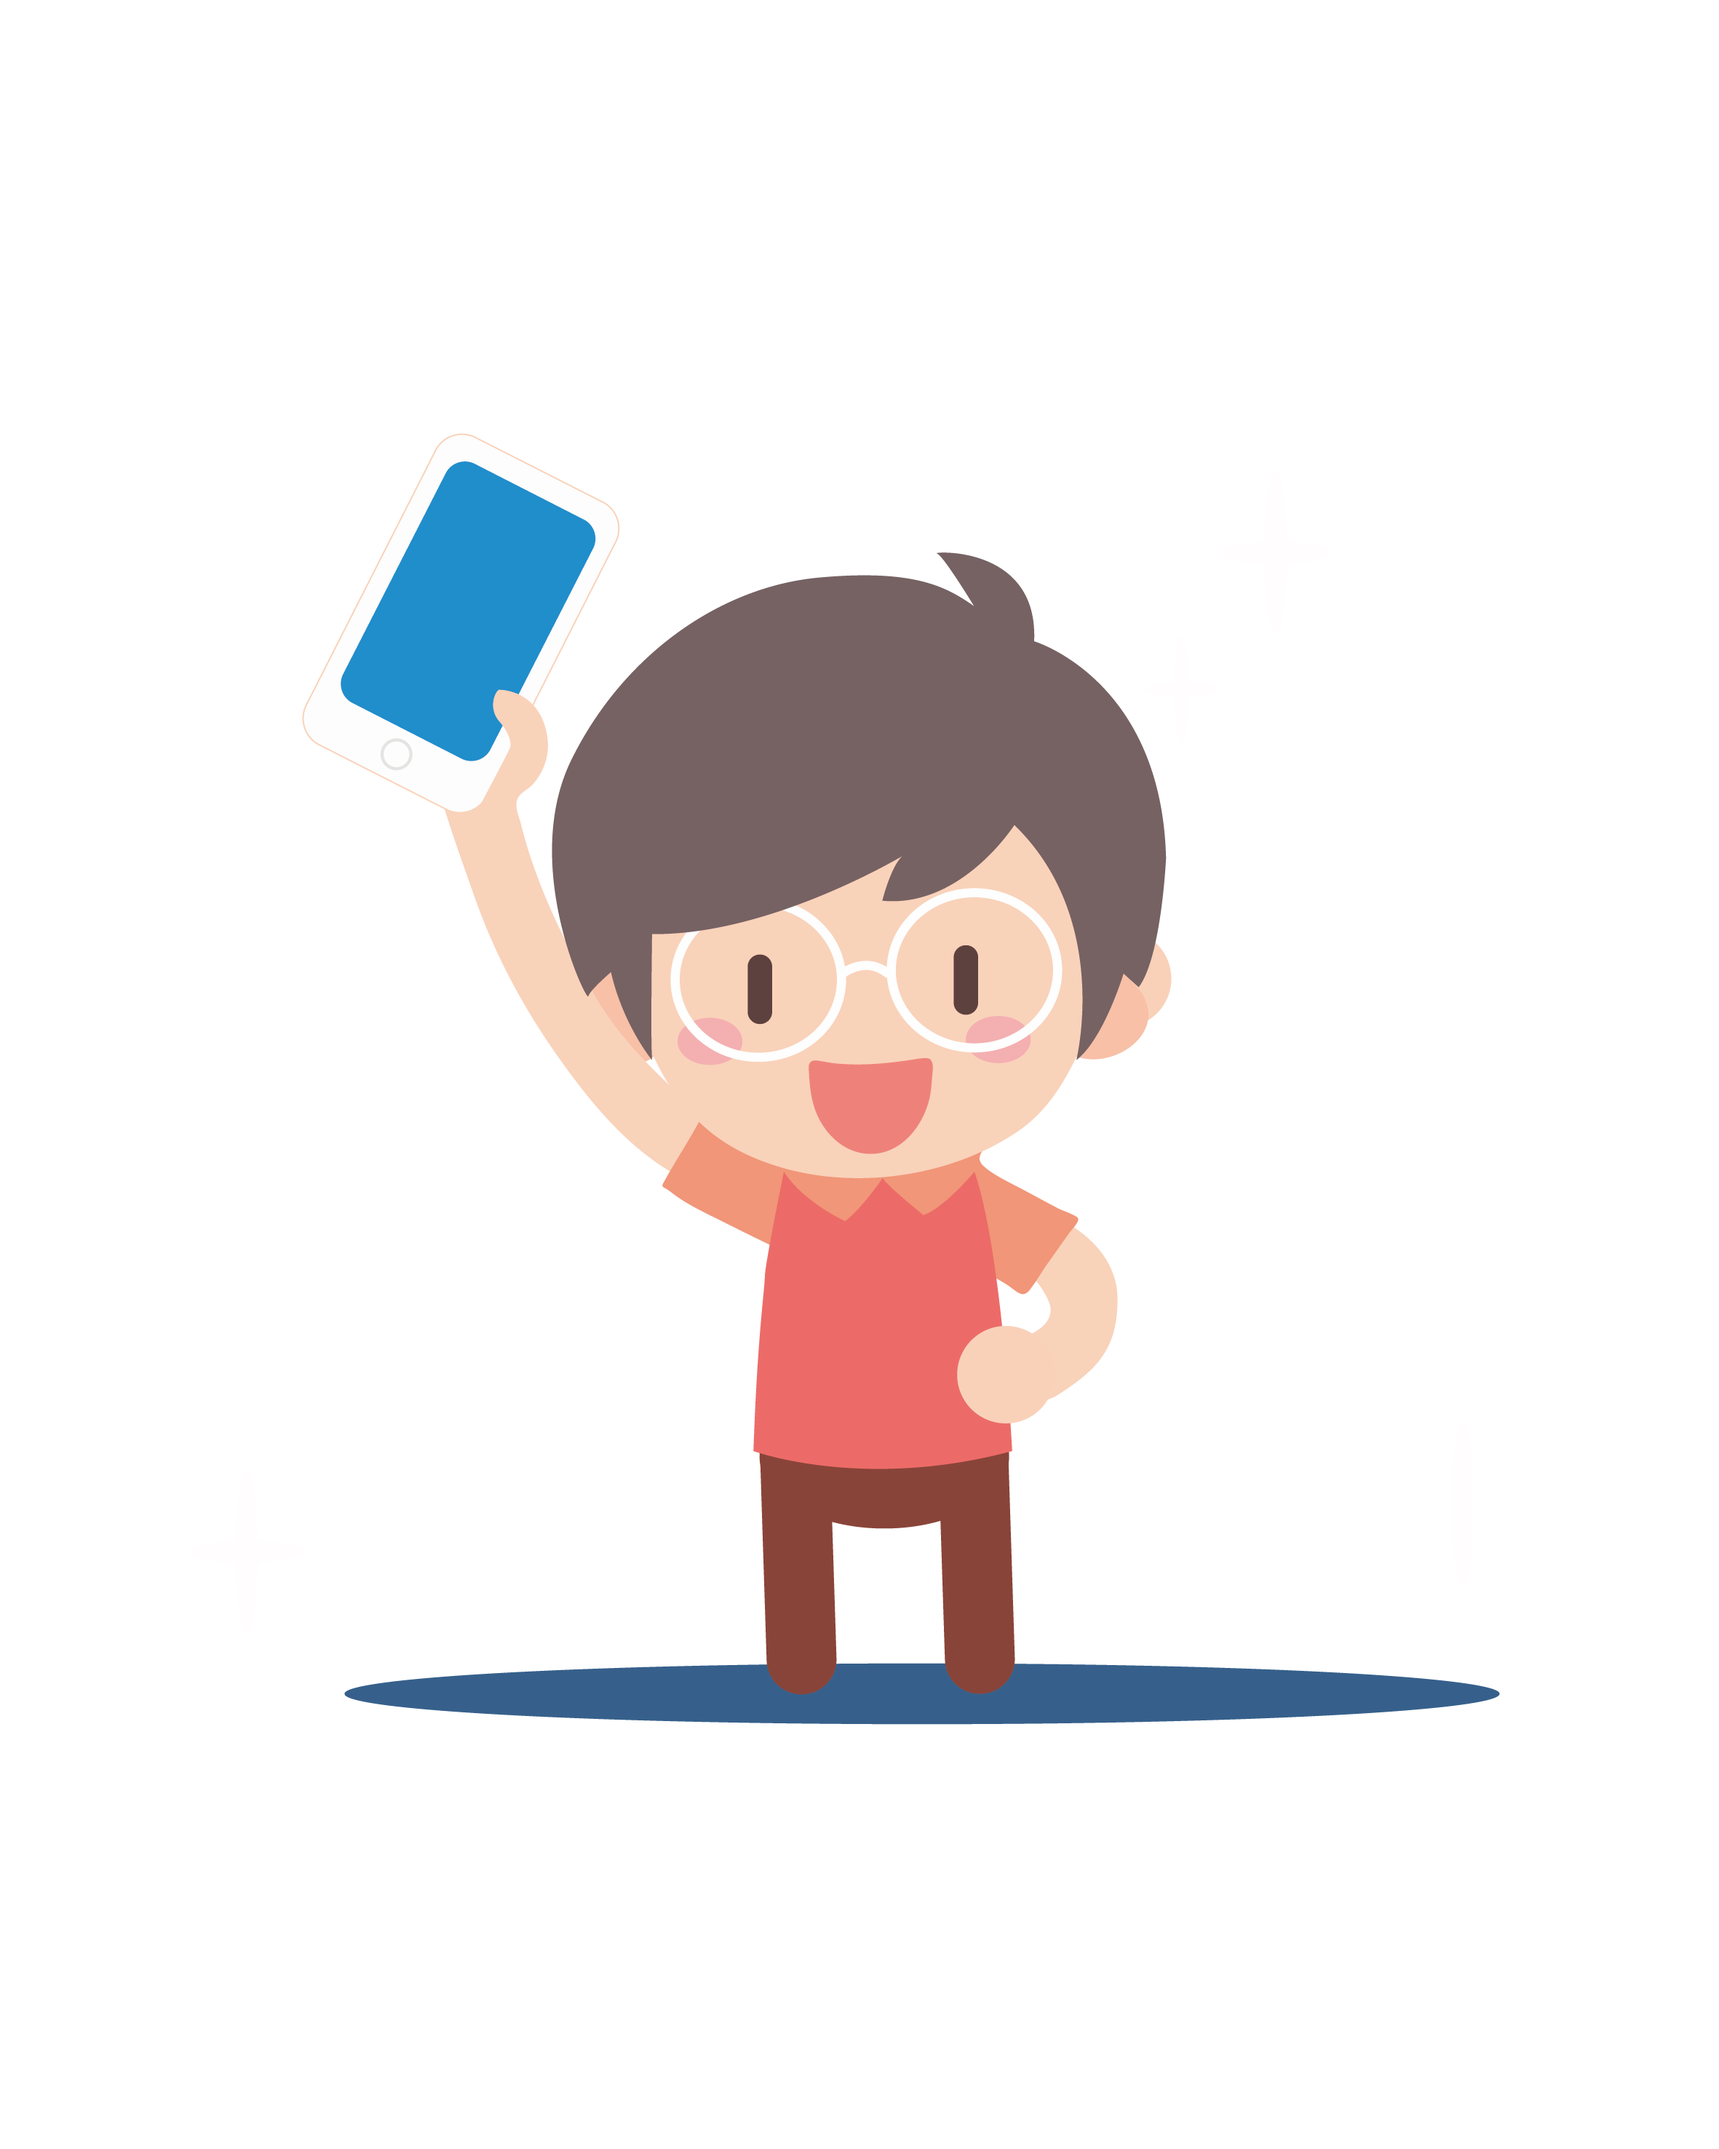
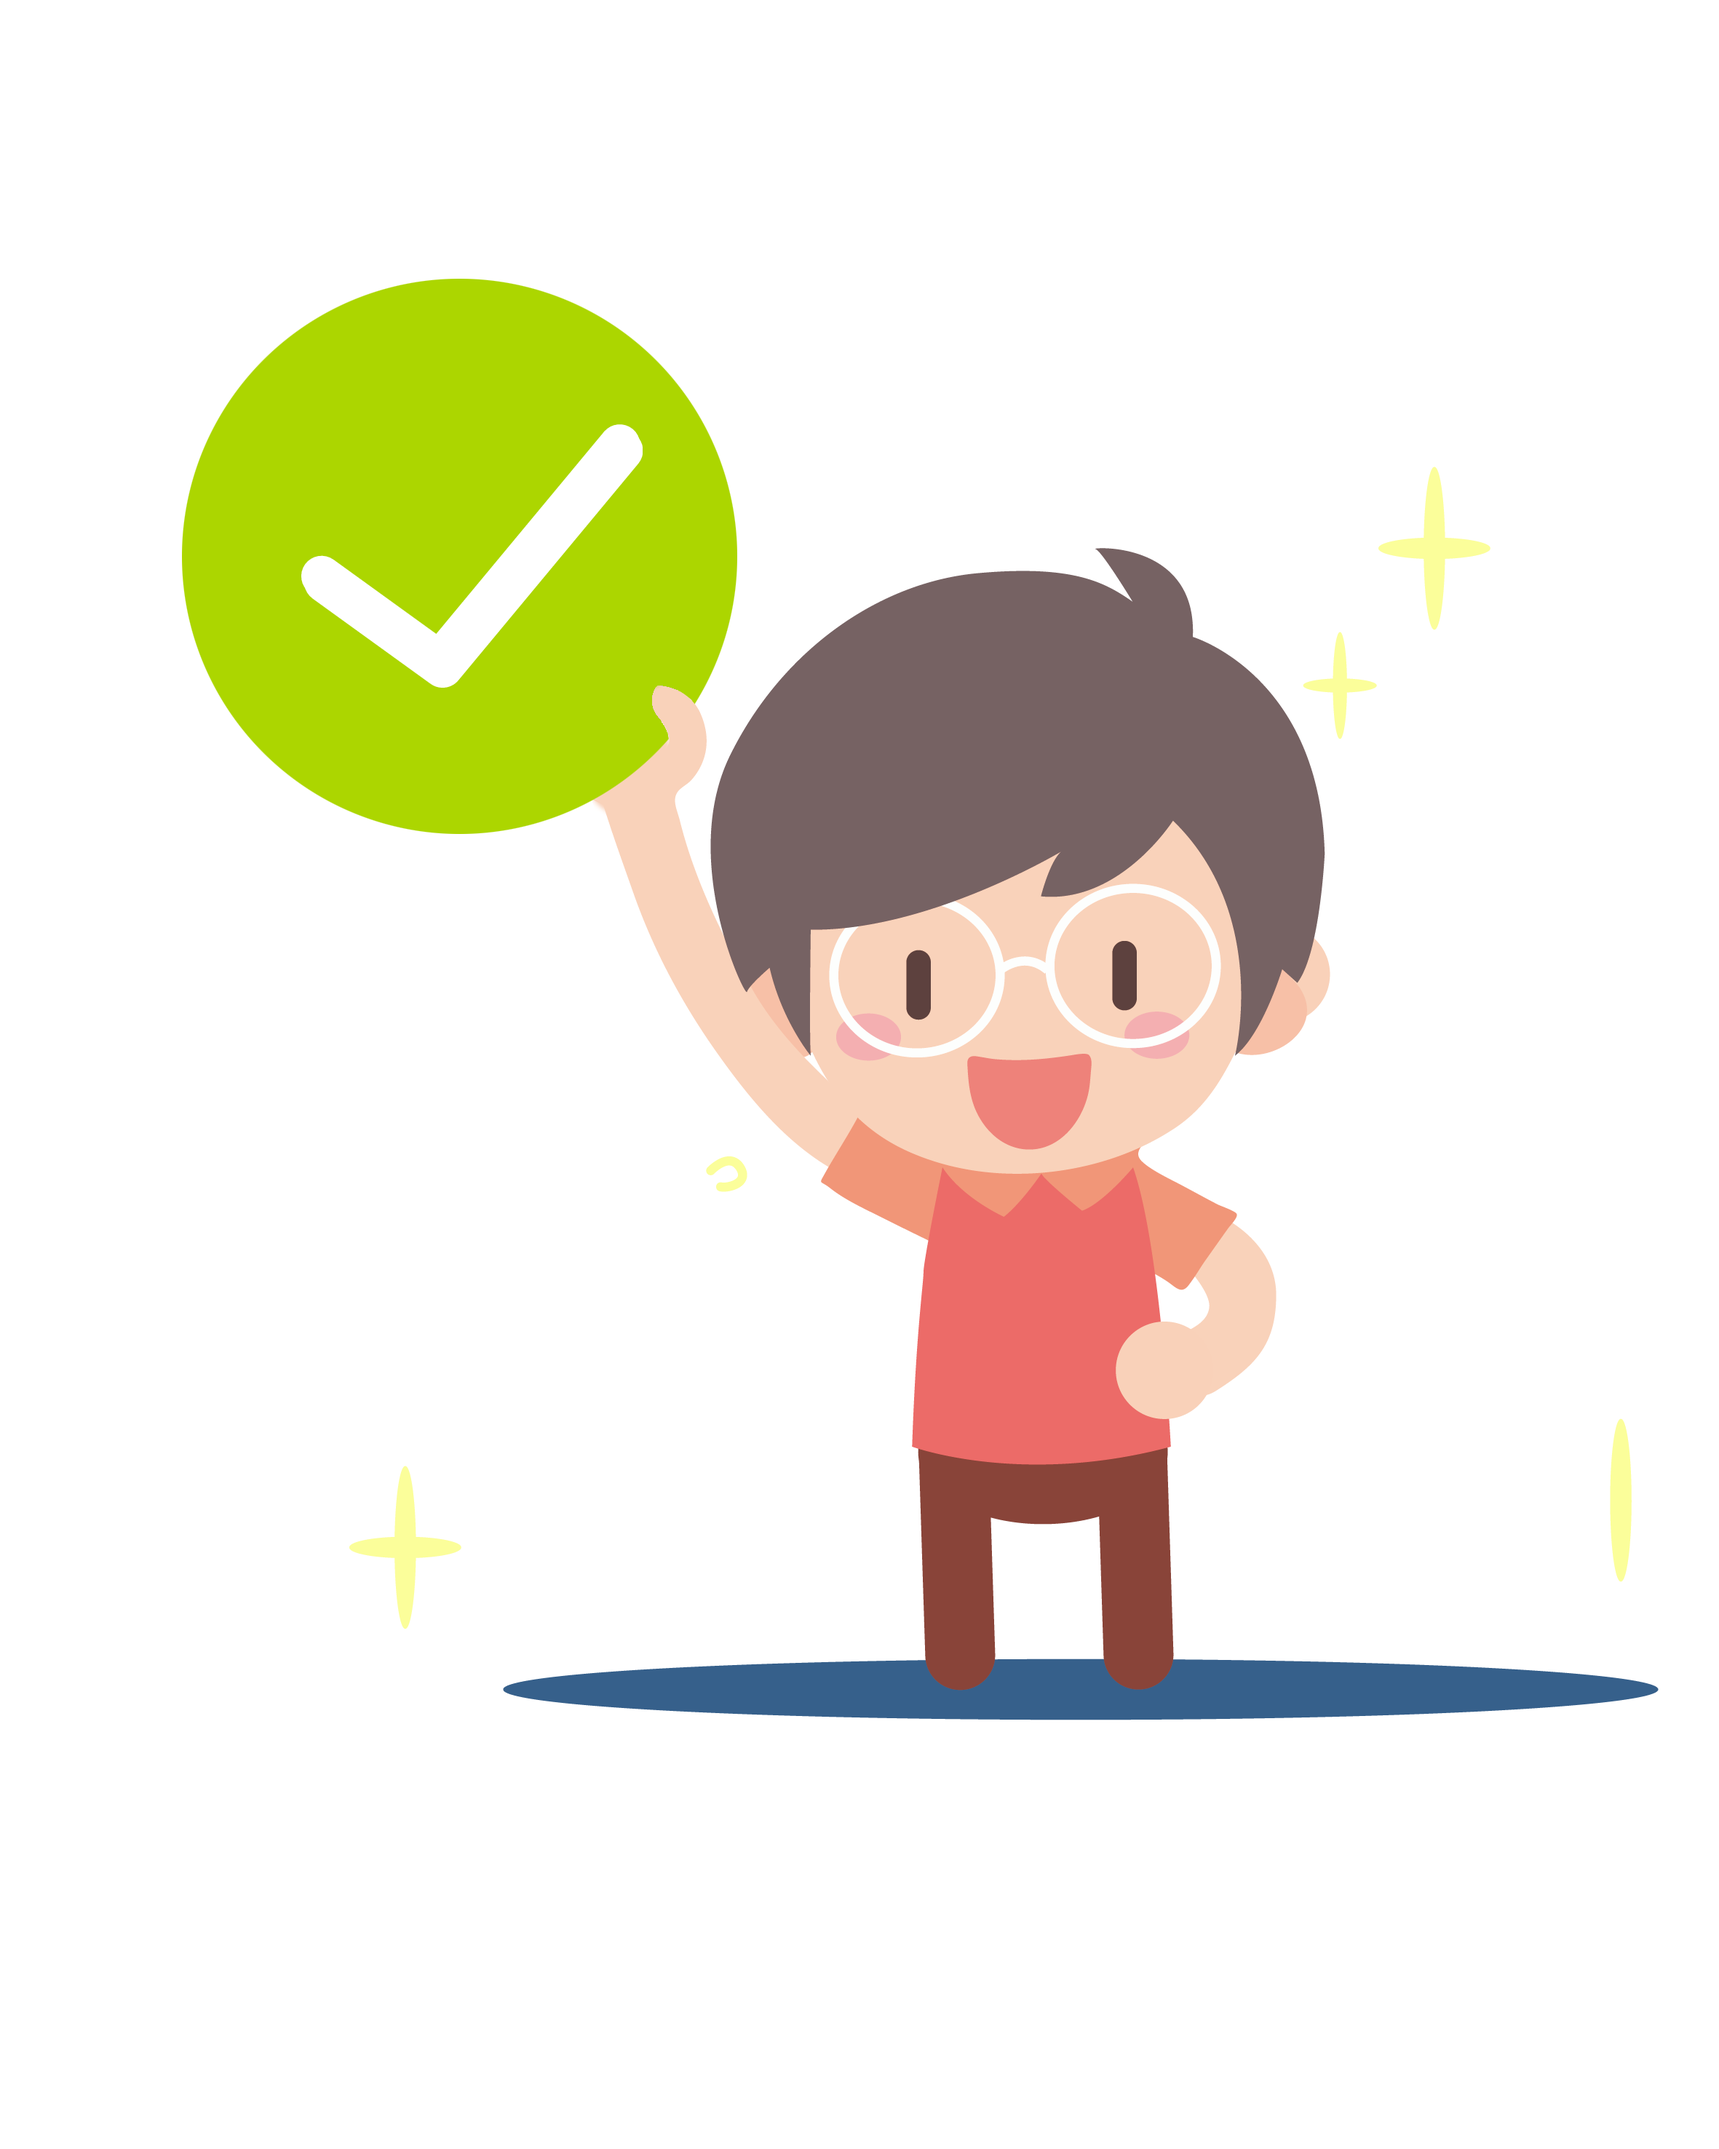
交易结果样式添加

diff --git a/src/views/tranInfo.vue b/src/views/tranInfo.vue
@@ -3,7 +3,7 @@
     <x-header style="width:100%;position:absolute;left:0;top:0;z-index:100;"
               :title="$t(title)" :left-options="{showBack}">
     </x-header>
-    <group>
+    <group class="traninfo-page">
       <div class="TI-money">
         {{info.tranAmt}}
       <p>COCO奶茶店</p>
@@ -65,26 +65,79 @@ export default {
 };
 </script>
 
-<style scoped>
-  .TI-money{
+<style>
+
+  /*交易详情内容块设置*/
+  .traninfo-page {
+    width: 92%;
+    margin-left: 4%;
+  }
+
+  /*圆角设置*/
+  .traninfo-page .weui-cells {
+    border-radius: 4px;
+    font-size: 12px;
+  }
+
+  /*删除边框*/
+  .traninfo-page .weui-cells:before{
+    border-top: none !important;
+  }
+
+  .traninfo-page .weui-cells:after {
+    border-bottom: none !important;
+  }
+
+  .traninfo-page:before,
+  .traninfo-page:after {
+    content: " ";
+    position: absolute;
+    z-index: 999;
+    width: 20px;
+    height: 20px;
+    border-radius: 50%;
+    top: 148px;
+    background: #f9f9f9;
+  }
+
+  .traninfo-page:before {
+    left: 6px;
+  }
+
+  .traninfo-page:after {
+    right: 6px;
+  }
+
+  /*价格*/
+  .traninfo-page .TI-money {
     text-align: center;
     font-size: 18px;
     color: #5799F9;
     padding: 30px 0 20px 0;
   }
 
+  /*商户*/
   .TI-money p {
     font-size: 12px;
-    color: #999;
+    color: #333;
   }
 
-  .weui-cell {
-    font-size: 12px;
-    border-bottom: 1px dotted #ccc;
+  /*上边框设置*/
+  .traninfo-page .weui-cell:before {
+    border-top: 1px dotted #d9d9d9;
   }
-  .state {
-    padding: 10px;
+
+  /*字体颜色设置*/
+  .traninfo-page .weui-form-preview__value {
+    color: #333;
+  }
+
+  /*交易结果状态展示*/
+  .traninfo-page .state {
+    padding: 12px;
     font-size: 14px;
     text-align: center;
+    border-top: 1px dotted #d9d9d9;
   }
+
 </style>

diff --git a/src/views/payResult.vue b/src/views/payResult.vue
@@ -3,8 +3,11 @@
     <x-header style="width:100%;position:absolute;left:0;top:0;z-index:100;"
               :title="$t(title)" :left-options="{showBack}">
     </x-header>
-    {{result}}
-    <x-button @click.native="goBack">确定</x-button>
+    <div class="pay-result">
+      <img slot="icon" src="../assets/success.png" >
+      <p>{{result}} 恭喜！支付成功！</p>
+      <x-button @click.native="goBack">确定</x-button>
+    </div>
   </div>
 </template>
 <script>
@@ -35,4 +38,30 @@ export default {
 </script>
 
 <style scoped>
+  /*交易结果图片*/
+  .pay-result img {
+    width: 60%;
+    margin-left: 18%;
+    margin-top: 30px;
+  }
+
+  /*交易结果文字*/
+  .pay-result p {
+   text-align: center;
+    margin-bottom: 30px;
+  }
+
+  /*交易结果按钮*/
+  .pay-result button {
+    width: 38%;
+    color: #666;
+    font-size: 14px;
+    background: none;
+    border: 1px solid #bbbbbb;
+    margin-top: 50px;
+  }
+
+  .pay-result .weui-btn:after {
+    border: none !important;
+  }
 </style>

diff --git a/src/views/pushList.vue b/src/views/pushList.vue
@@ -129,7 +129,7 @@ export default {
   /*日期*/
   .PL-titme {
     font-size: 12px;
-    color: #ccc;
+    color: #999;
     margin: 4px 0 0 14px;
   }
 
@@ -137,7 +137,7 @@ export default {
   .PL-money {
     text-align: center;
     font-size: 12px;
-    color: #CCC;
+    color: #999;
     margin-top: 20px;
   }
 
@@ -154,7 +154,4 @@ export default {
     font-size: 12px;
   }
 
- .weui-form-preview__label {
-    color: #ccc !important;
- }
 </style>

diff --git a/src/views/home.vue b/src/views/home.vue
@@ -174,7 +174,7 @@
 
   /*价格设置*/
   .price {
-    font-size: 24px;
+    font-size: 20px;
     color: red;
   }
 
